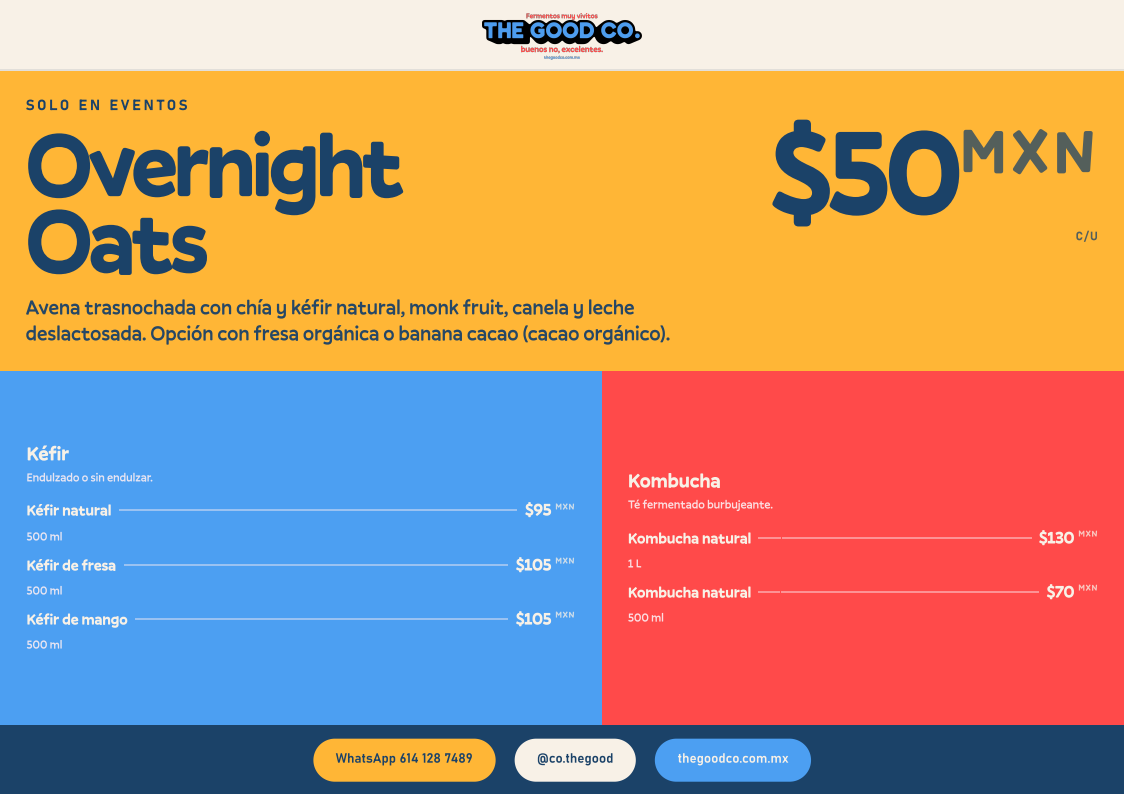
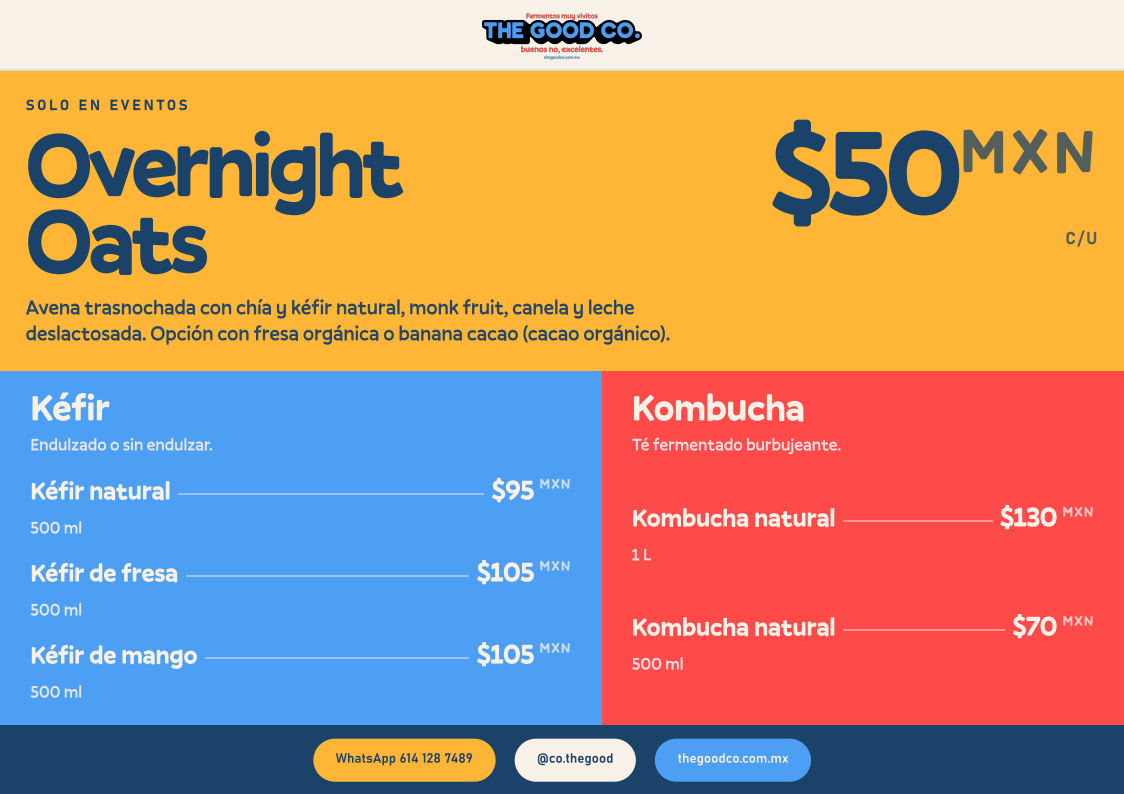
Enlarge Kéfir and Kombucha type to fill catalog panels
Scale up titles, item names, prices and meta copy, and distribute
list items through the panel height so the blue/coral blocks feel less empty.

diff --git a/web/components/menu/menu-board.css b/web/components/menu/menu-board.css
@@ -117,25 +117,41 @@
   margin-top: 1.5mm;
 }
 
-.menu-board--capture .menu-list {
-  gap: 0.45rem;
+.menu-board--capture .menu-grid .menu-list {
+  gap: 0.55rem;
+  flex: 1 1 auto;
+  display: flex;
+  flex-direction: column;
+  justify-content: space-evenly;
+  min-height: 0;
+}
+
+.menu-board--capture .menu-grid .menu-section {
+  padding: 4.5mm 8mm 5mm;
+  justify-content: flex-start;
+  gap: 3mm;
 }
 
 .menu-board--capture .menu-grid .menu-section__title {
-  font-size: 15pt;
+  font-size: 28pt;
+}
+
+.menu-board--capture .menu-grid .menu-section__head {
+  margin-bottom: 0;
+  flex: 0 0 auto;
 }
 
 .menu-board--capture .menu-item__name {
-  font-size: 11.5pt;
+  font-size: 19pt;
 }
 
 .menu-board--capture .menu-grid .menu-item__price {
-  font-size: 13pt;
+  font-size: 21pt;
 }
 
 .menu-board--capture .menu-grid .menu-section__blurb,
 .menu-board--capture .menu-item__meta {
-  font-size: 9pt;
+  font-size: 13pt;
 }
 
 .menu-board--capture .menu-foot {
@@ -257,7 +273,12 @@
   min-height: 100%;
   display: flex;
   flex-direction: column;
-  justify-content: center;
+  justify-content: space-between;
+}
+
+.menu-grid .menu-list {
+  flex: 1 1 auto;
+  justify-content: space-evenly;
 }
 
 .menu-section--featured {
@@ -396,7 +417,7 @@
 .menu-section__title {
   margin: 0;
   font-family: var(--font-display);
-  font-size: 1.5rem;
+  font-size: 1.85rem;
   font-weight: 700;
   line-height: 1;
 }
@@ -415,9 +436,9 @@
 }
 
 .menu-section__blurb {
-  margin: 0.4rem 0 0;
+  margin: 0.45rem 0 0;
   max-width: 34rem;
-  font-size: 0.88rem;
+  font-size: 1rem;
   line-height: 1.35;
   opacity: 0.9;
 }
@@ -436,7 +457,7 @@
   padding: 0;
   display: flex;
   flex-direction: column;
-  gap: 0.7rem;
+  gap: 0.95rem;
 }
 
 .menu-item__row {
@@ -447,7 +468,7 @@
 
 .menu-item__name {
   font-family: var(--font-display);
-  font-size: 1.05rem;
+  font-size: 1.28rem;
   font-weight: 700;
   flex-shrink: 0;
 }
@@ -461,7 +482,7 @@
 
 .menu-item__price {
   font-family: var(--font-display);
-  font-size: 1.18rem;
+  font-size: 1.4rem;
   font-weight: 700;
   flex-shrink: 0;
   letter-spacing: -0.02em;
@@ -469,8 +490,8 @@
 }
 
 .menu-item__meta {
-  margin: 0.2rem 0 0;
-  font-size: 0.78rem;
+  margin: 0.25rem 0 0;
+  font-size: 0.92rem;
   opacity: 0.85;
 }
 
@@ -666,25 +687,41 @@
     margin: 0;
   }
 
+  .menu-grid .menu-section {
+    padding: 4.5mm 8mm 5mm;
+    justify-content: flex-start;
+    gap: 3mm;
+  }
+
   .menu-grid .menu-section__title {
-    font-size: 15pt;
+    font-size: 28pt;
+  }
+
+  .menu-grid .menu-section__head {
+    margin-bottom: 0;
+    flex: 0 0 auto;
   }
 
   .menu-item__name {
-    font-size: 11.5pt;
+    font-size: 19pt;
   }
 
   .menu-grid .menu-item__price {
-    font-size: 13pt;
+    font-size: 21pt;
   }
 
   .menu-grid .menu-section__blurb,
   .menu-item__meta {
-    font-size: 9pt;
+    font-size: 13pt;
   }
 
-  .menu-list {
-    gap: 0.45rem;
+  .menu-grid .menu-list {
+    gap: 0.55rem;
+    flex: 1 1 auto;
+    display: flex;
+    flex-direction: column;
+    justify-content: space-evenly;
+    min-height: 0;
   }
 
   .menu-grid {
